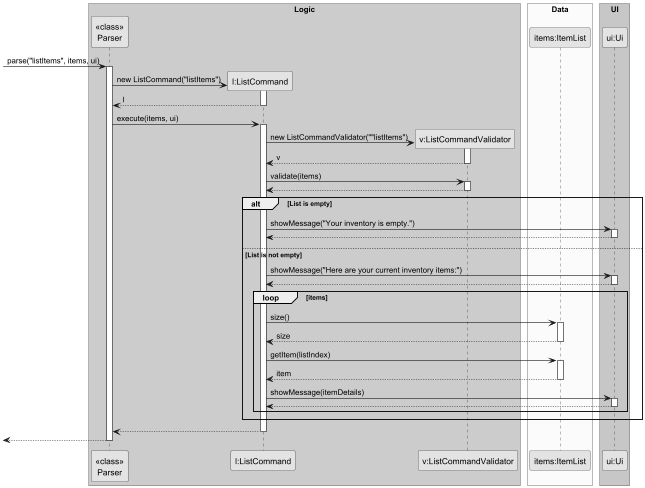
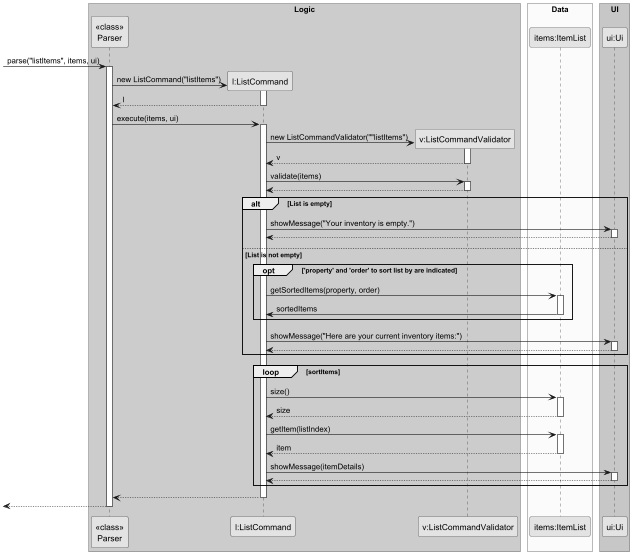
Update UG DG

Changed region(s): [[0.0, 0.0, 1.0, 1.0], [0.4509, 0.0, 0.5111, 0.0307]]

diff --git a/docs/DeveloperGuide.md b/docs/DeveloperGuide.md
@@ -21,7 +21,13 @@
     * [Storage System](#storage-system)
     * [Command Autocompletion (Trie & JLine)](#command-autocompletion)
     * [Typo Detection](#typo-detection)
-4. [Proposed/Planned Features](#proposedplanned-features)
+4. [Product Scope](#product-scope)
+   * [Target User Profile](#target-user-profile)
+   * [User Stories](#user-stories)
+   * [Non-Functional Requirements](#non-functional-requirements)
+   * [Glossary](#glossary)
+   * [Instructions for manual testing](#instructions-for-manual-testing)
+5. [Proposed/Planned Features](#proposedplanned-features)
     * [Storage & Data Persistence](#storage--data-persistence)
 
 ---
@@ -279,12 +285,13 @@ The `ShowTransactionHistoryCommand` retrieves and displays all past transactions
 ![Show List Command Class Diagram](diagrams/ListCommandClassDiagram.png)
 
 **Step-by-step Execution:**
-1. When the user inputs `listItems`, the parser instantiates a new `ListCommand` with the raw input string.
+1. When the user inputs `listItems` or `listItems price high`, the parser instantiates a new `ListCommand` with the raw input string.
 2. The `execute` method of `ListCommand` is called.
 3. The `execute` method creates `ListCommandValidator` with the raw input string and calls the `validate` method.
 4. The `validate` method checks that the raw input string follows the correct format for `listItems` command. If the correct format is not followed, it will throw an `IllegalArgumentException` and halt the execution.
 5. Control is returned to the `execute` method which checks if the inventory list is empty and passes a message that the inventory is empty to the `ui` to display to the user.
-6. Otherwise, it passes the list of items in the inventory to the `ui` to display to the user.
+6. Otherwise, checks if the input contains descriptors for sorting. If it does, it retrieves the sorted list of items by the property and order given in the input and passes it to the `ui` to display to the user.
+7. Else, it passes the default order of the list of items to the `ui` to display to the user.
 
 **Figure 26: List Command Sequence Diagram**
 ![List Command Sequence Diagram](diagrams/ListCommandSequenceDiagram.png)
@@ -418,20 +425,21 @@ accuracy (clear, structured output)
 
 ## User Stories
 
-| Version | As a ...    | I want to ...                                     | So that I can ...                                           |
-|---------|-------------|---------------------------------------------------|-------------------------------------------------------------|
-| v1.0    | new user    | see usage instructions                            | refer to them when I forget how to use the application      |
-| v1.0    | store owner | add items                                         | keep track of new products in my inventory                  |
-| v1.0    | store owner | delete items                                      | remove products that are no longer sold                     |
-| v1.0    | store owner | edit item details                                 | update product name or quantity when needed                 |
-| v1.0    | store owner | view all items                                    | know what products I currently have                         |
-| v1.0    | store owner | update item quantity via transactions             | record sales or restocking accurately                       |
-| v1.0    | store owner | exit the application                              | safely close the program after use                         |
-| v2.0    | store owner | find items by keyword                             | locate items quickly without scanning the full list         |
-| v2.0    | store owner | view transaction history                          | review past transactions for tracking and reference         |
-| v2.0    | store owner | have my inventory automatically saved             | avoid losing data when I close the application              |
-| v2.0    | store owner | load previously saved inventory                   | continue managing my shop from where I left off             |
-| v2.0    | store owner | view detailed instructions for a specific command | learn how to use a command correctly                        |
+| Version | As a ...    | I want to ...                                                  | So that I can ...                                            |
+|---------|-------------|----------------------------------------------------------------|--------------------------------------------------------------|
+| v1.0    | new user    | see usage instructions                                         | refer to them when I forget how to use the application       |
+| v1.0    | store owner | add items                                                      | keep track of new products in my inventory                   |
+| v1.0    | store owner | delete items                                                   | remove products that are no longer sold                      |
+| v1.0    | store owner | edit item details                                              | update product name or quantity when needed                  |
+| v1.0    | store owner | view all items                                                 | know information of products I currently have                |
+| v1.0    | store owner | update item quantity via transactions                          | record sales or restocking accurately                        |
+| v1.0    | store owner | exit the application                                           | safely close the program after use                           |
+| v2.0    | store owner | find items by keyword                                          | locate items quickly without scanning the full list          |
+| v2.0    | store owner | view transaction history                                       | review past transactions for tracking and reference          |
+| v2.0    | store owner | have my inventory automatically saved                          | avoid losing data when I close the application               |
+| v2.0    | store owner | load previously saved inventory                                | continue managing my shop from where I left off              |
+| v2.0    | store owner | view the list of items sorted by an item property of my choice | quickly view which items have, for example, lower quantities |
+| v2.0    | store owner | view detailed instructions for a specific command              | learn how to use a command correctly                         |
 
 ---
 
@@ -456,9 +464,12 @@ accuracy (clear, structured output)
 ## Instructions for manual testing
 
 1. Launch the app: `java -jar inventorybro.jar`
-2. Add items: `addItem d/Coke q/50` and `addItem d/Sprite q/30`
+2. Add items: `addItem d/Coke q/50 p/1` and `addItem d/Sprite q/30 p/2`
 3. List items: `listItems`
-4. Edit an item: `editItem 1 d/Coke Can q/45 p/1.50`
+4. Edit an item: 
+   * `editDescription 1 d/Coke Can`
+   * `editPrice 1 p/1.50`
+   * `editQuantity 1 q/45`
 5. Find an item: `findItem coke`
 6. Transact: `transact 1 q/-5`
 7. Delete: `deleteItem 2`

diff --git a/docs/UserGuide.md b/docs/UserGuide.md
@@ -4,6 +4,27 @@
 
 If you prefer typing commands instead of clicking buttons, InventoryBRO allows you to manage your stock quickly, reliably, and precisely.
 
+* [Quick Start](#quick-start)
+* [Notes ABout the Command Format](#notes-about-command-format)
+* [Smart Features](#smart-features)
+* [Feature List (v2.0)](#feature-list-v20)
+   1. [Adding an Item: `addItem`](#1-adding-an-item-additem)
+   2. [Deleting an Item: `deleteItem`](#2-deleting-an-item-deleteitem)
+   3. [Editing an Item's Description: `editDescription`](#3-editing-an-items-description-editdescription)
+   4. [Editing an Item's Price: `editPrice`](#4-editing-an-items-price-editprice)
+   5. [Editing an Item's Quantity: `editQuantity`](#5-editing-an-items-quantity-editquantity)
+   6. [Viewing All Items: `listItems`](#6-viewing-all-items-listitems)
+   7. [Finding an Item: `findItem`](#7-finding-an-item-finditem)
+   8. [Filtering Items: `filterItem`](#8-filtering-items-filteritem)
+   9. [Recording a Transaction: `transact`](#9-recording-a-transaction-transact)
+   10. [Viewing Transaction History: `showHistory`](#10-viewing-transaction-history-showhistory)
+   11. [Getting Help: `help`](#11-getting-help-help)
+   12. [Exiting the Program: `exit`](#12-exiting-the-program-exit)
+* [Saving Data](#saving-data)
+* [Command Autocompletion](#command-autocompletion)
+* [Typo Detection](#typo-detection)
+* [Command Summary](#command-summary)
+* [Scope of v2.0](#scope-of-v20)
 ---
 
 ## Quick Start
@@ -95,24 +116,27 @@ Updates the quantity of an existing item in the inventory.
   ```
 
 ### 6. Viewing All Items: `listItems`
-Displays a numbered list of all items currently in your inventory. Users can indicate to view a sorted list of items by an item property of their choice
+Displays a chronologically ordered numbered list of all items currently in your inventory. Users can also indicate to view a sorted list of items by an item property and order of their choice. The properties that the items can be sorted by are `quantity` and `price` and the order which they can be sorted in are `high` and `low` to show the item with the highest and lowest of that property first respectively. 
 
-* **Format:** `listItems` or `listItems [FIELD] [ORDER]`
-* **Examples and output:**
+For example, to view the list sorted based on the descending order of item quantity, such that it the item with the highest quantity is displayed first, users can enter `listItems quantity high`.
+
+* **Format:** `listItems` or `listItems [PROPERTY] [ORDER]`
+* **Example 1 (chronological order):** `listItems`
   ```text
-  > listItems
   Here are your current inventory items:
   1. Coke Can (Quantity: 50, Price: $2.00)
   2. Sprite Bottle (Quantity: 30, Price: $1.00)
   3. Potato Chips (Quantity: 20, Price: $3.00)
-  
-  > listItems quantity high
+  ```
+* **Example 2 (sorted by the property `quantity` and order `high`):** `listItems quantity high`
+  ```text
   Here are your current inventory items based on quantity in descending order:
   1. Coke Can (Quantity: 50, Price: $2.00)
   2. Potato Chips (Quantity: 20, Price: $3.00)
   3. Sprite Bottle (Quantity: 30, Price: $1.00)
-  
-  > listItems price low
+  ```
+* **Example 3 (sorted by the property: `price` and order: `low`):** `listItems price low`
+```text
   Here are your current inventory items based on price in ascending order:
   1. Sprite Bottle (Quantity: 30, Price: $1.00)
   2. Coke Can (Quantity: 50, Price: $2.00)
@@ -251,7 +275,7 @@ InventoryBRO automatically saves your data to the hard disk whenever:
 * An item is deleted
 * A transaction is recorded
 
-There is **no need to manually save**. Data is stored seamlessly in `./data/inventorybro.txt`. If the folder or file does not exist, InventoryBRO will automatically create it for you upon startup.
+There is **no need to manually save**. Data is stored seamlessly in `./data/inventory.txt` and `./data/transactions.txt`. If the folder or file does not exist, InventoryBRO will automatically create it for you upon startup.
 
 ---
 
@@ -306,19 +330,19 @@ If you accidentally misspell a command, InventoryBRO will attempt to detect the 
 
 ## Command Summary
 
-| Action | Format | Example |
-| :--- | :--- | :--- |
-| **Add item** | `addItem d/NAME q/QUANTITY p/PRICE` | `addItem d/Coke q/50 p/1.50` |
-| **Delete item** | `deleteItem INDEX` | `deleteItem 2` |
-| **Edit description** | `editDescription INDEX d/NEW_DESCRIPTION` | `editDescription 1 d/Coke Can` |
-| **Edit price** | `editPrice INDEX p/NEW_PRICE` | `editPrice 1 p/2.50` |
-| **Edit quantity** | `editQuantity INDEX q/NEW_QUANTITY` | `editQuantity 1 q/100` |
-| **List items** | `listItems` | `listItems` |
-| **Find item** | `findItem KEYWORD` | `findItem apple` |
-| **Filter items** | `filterItem FIELD OP VALUE [AND\|OR ...]` | `filterItem quantity > 10` |
-| **Record transaction** | `transact INDEX q/CHANGE` | `transact 1 q/-3` |
-| **Get Help** | `help` | `help` |
-| **Exit** | `exit` | `exit` |
+| Action                 | Format                                                                         | Example                                   |
+|:-----------------------|:-------------------------------------------------------------------------------|:------------------------------------------|
+| **Add item**           | `addItem d/NAME q/QUANTITY p/PRICE`                                            | `addItem d/Coke q/50 p/1.50`              |
+| **Delete item**        | `deleteItem INDEX`                                                             | `deleteItem 2`                            |
+| **Edit description**   | `editDescription INDEX d/NEW_DESCRIPTION`                                      | `editDescription 1 d/Coke Can`            |
+| **Edit price**         | `editPrice INDEX p/NEW_PRICE`                                                  | `editPrice 1 p/2.50`                      |
+| **Edit quantity**      | `editQuantity INDEX q/NEW_QUANTITY`                                            | `editQuantity 1 q/100`                    |
+| **List items**         | `listItems` - chronological order <br/>`listItems [property] [order]` - sorted | `listItems`<br/>`listItems quantity high` |
+| **Find item**          | `findItem KEYWORD`                                                             | `findItem apple`                          |
+| **Filter items**       | `filterItem FIELD OP VALUE [AND\|OR ...]`                                      | `filterItem quantity > 10`                |
+| **Record transaction** | `transact INDEX q/CHANGE`                                                      | `transact 1 q/-3`                         |
+| **Get Help**           | `help`                                                                         | `help`                                    |
+| **Exit**               | `exit`                                                                         | `exit`                                    |
 
 ---
 

diff --git a/docs/team/adbsw.md b/docs/team/adbsw.md
@@ -14,10 +14,14 @@ InventoryBro is an inventory management tracking application interacted via a CL
   * Added the ability to view summaries of all commands that users can use in the application, or view detailed instructions of a particular command specified by the users.
 * Enhancements to code:
   * Updated ItemList to have a method for sorting the list of items by a property and order and returning the sorted list.
+* Contributions to the UG:
+  * Sections:
+    * Added: Feature List (v2.0) - Viewing All Items: `listItems`, Feature List (v2.0) - Getting Help: `help`
+  * Sections updated:
+    * Command Summary 
 * Contributions to the DG:
-  * Sections :
-    * Implementation
-      * Viewing list of items in the inventory 
-      * Viewing help messages of commands
+  * Sections:
+    * Added: Implementation - Viewing list of items in the inventory, Implementation - Viewing help messages of commands
+    * Updated: Product scope - User Stories, Product scope - Instructions for manual testing
   * UML diagrams:
     * Added: ListCommand class diagram, ListCommand sequence diagram, HelpCommand class diagram, HelpCommand sequence diagram
